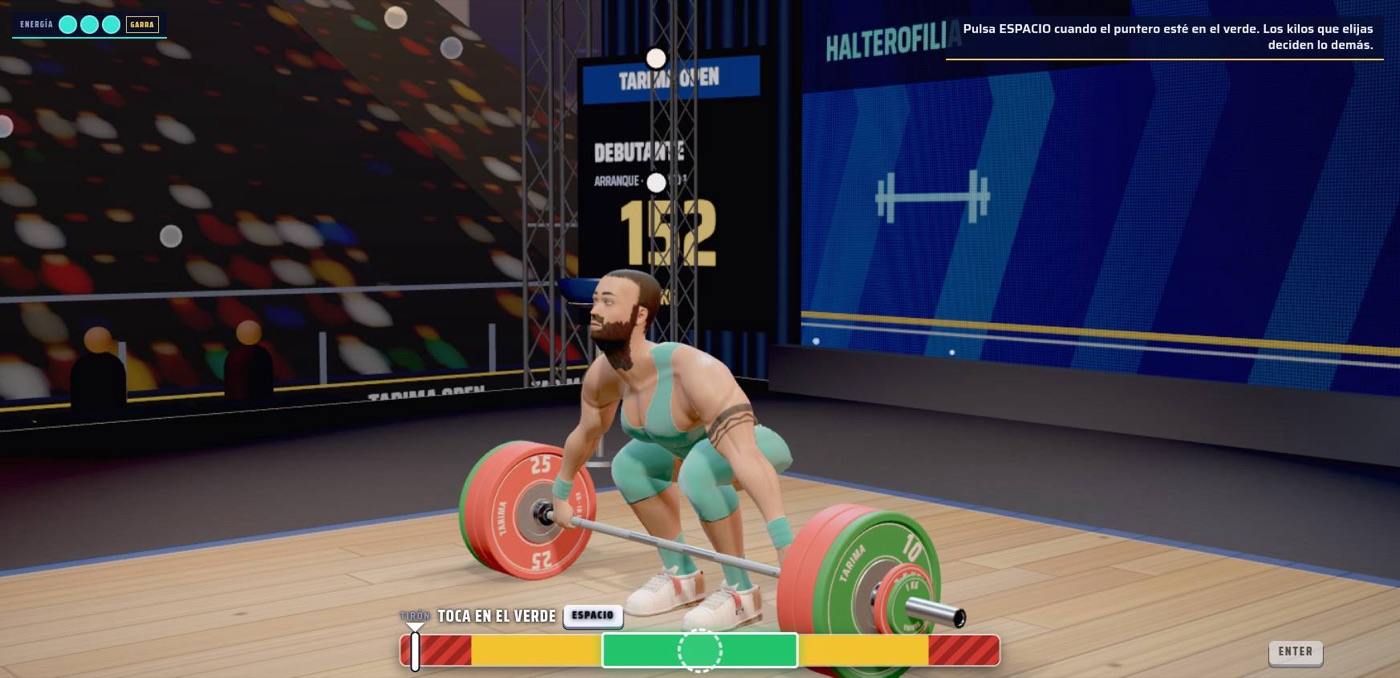
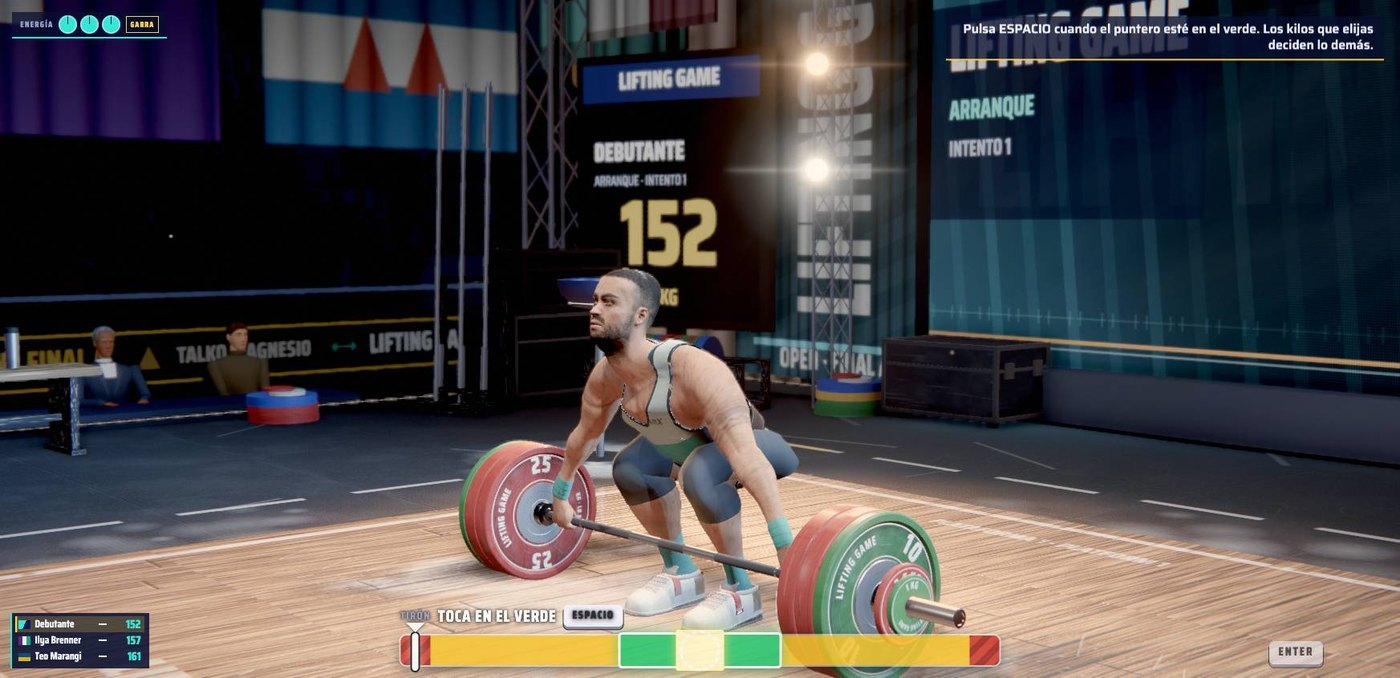
Limpieza (archivos de trabajo superados e imágenes sin uso) y capturas del README al día, con el pesista nuevo
Claude-Session: https://claude.ai/code/session_01McJfKTSTvnWrYDAVi9PFEW

diff --git a/blender/finish.py b/blender/finish.py
@@ -122,5 +122,5 @@ try:
     if 'escote' in STY: geo.chest_check(b,rig,K)
 except Exception as e: print('PECHO posado error',e)
 bpy.ops.wm.save_as_mainfile(filepath=OUT+'s3b.blend')  # punto de partida de pose_only.py
-if os.environ.get('TARIMA_NOPOSES'): sys.exit(0)   # solo malla (renders de control con blender/ctl.py)
+if os.environ.get('TARIMA_NOPOSES'): sys.exit(0)   # solo malla (renders de control con blender/ctl3.py)
 exec(open(os.path.join(HERE,'poses.py'),encoding='utf-8').read())

diff --git a/HANDOFF.md b/HANDOFF.md
@@ -176,7 +176,7 @@ Resumen: Ventura 18 ok, 26 ok con reservas, 1 mal. Brenner 22 ok, 23 ok con rese
 - La prueba avisa que el hueso `Bar` se mueve 1,1 a 1,2 mm entre «Parado» y «Salida» del arranque y queda 6 mm por encima del apoyo real de los discos; el visor fija la barra a la tarima mientras tanto.
 - Halo de puntos blancos alrededor de la barra, las manos y el borde de los discos (ruido de profundidad de campo u oclusión).
 - El visor muestreaba la animación un cuadro antes de cada clave; corregido el 11-nov en `web/js/athlete.js` (muestrea desde el primer tiempo de clave).
-- Archivos de trabajo para limpiar: `blender/ctl.py`, `blender/ctl2.py` (superados por `ctl3.py`), `tools/check_viewer_shot.mjs`, `tools/check_viewer_vendor.mjs`, `tools/check_viewer_perf.mjs`.
+- Archivos de trabajo: `blender/ctl.py`, `blender/ctl2.py` y `tools/check_viewer_shot.mjs` se borraron el 26-nov (los superó `ctl3.py`). `tools/check_viewer_vendor.mjs` (`npm run vendor`) y `tools/check_viewer_perf.mjs` se usan y quedan.
 
 ## Juego (etapa 1, rama `gameplay`)
 
